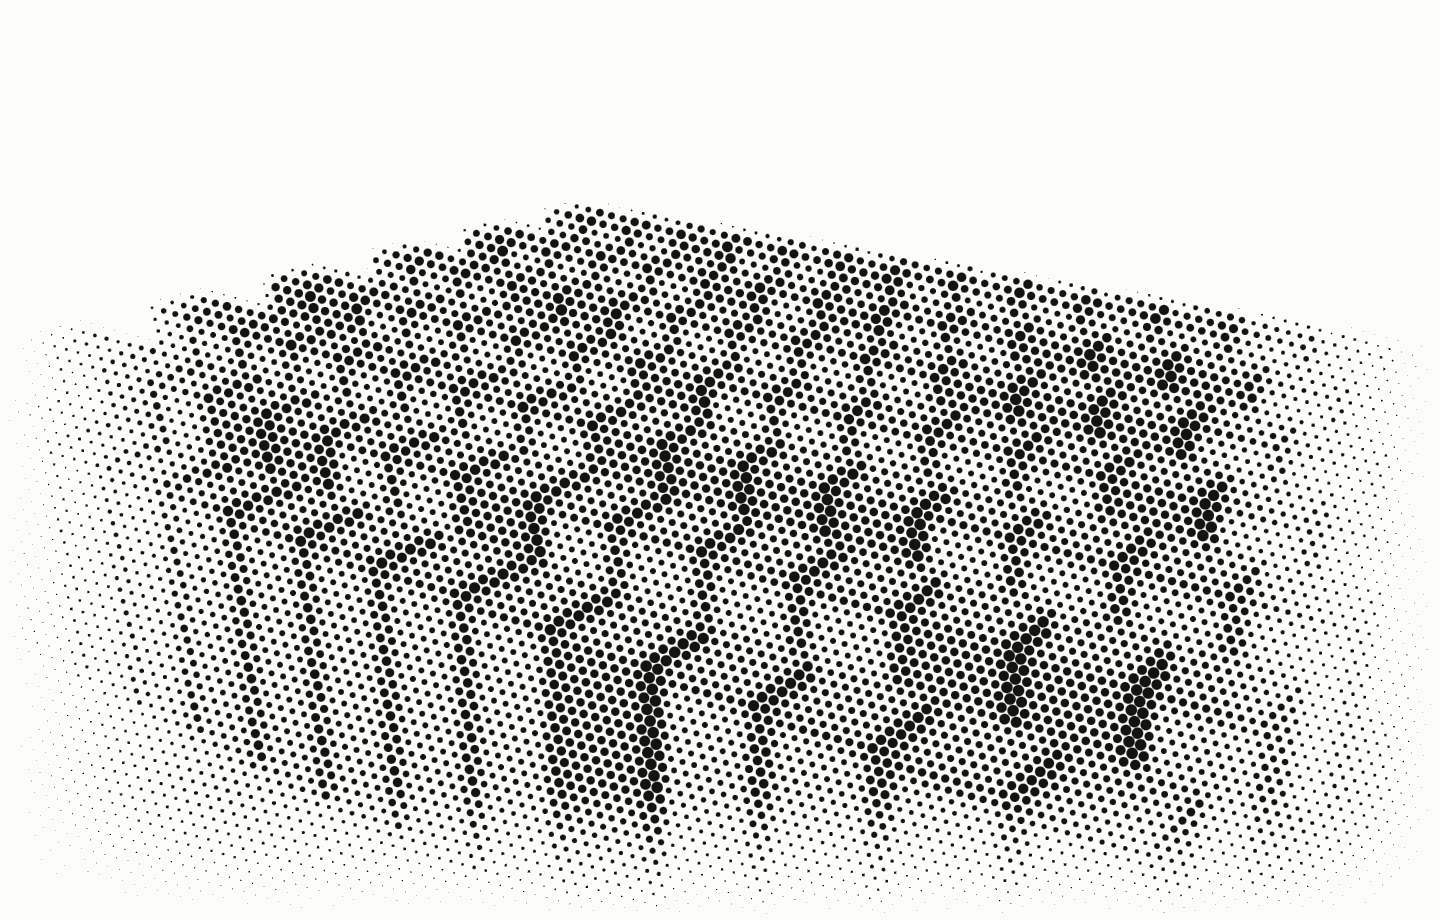
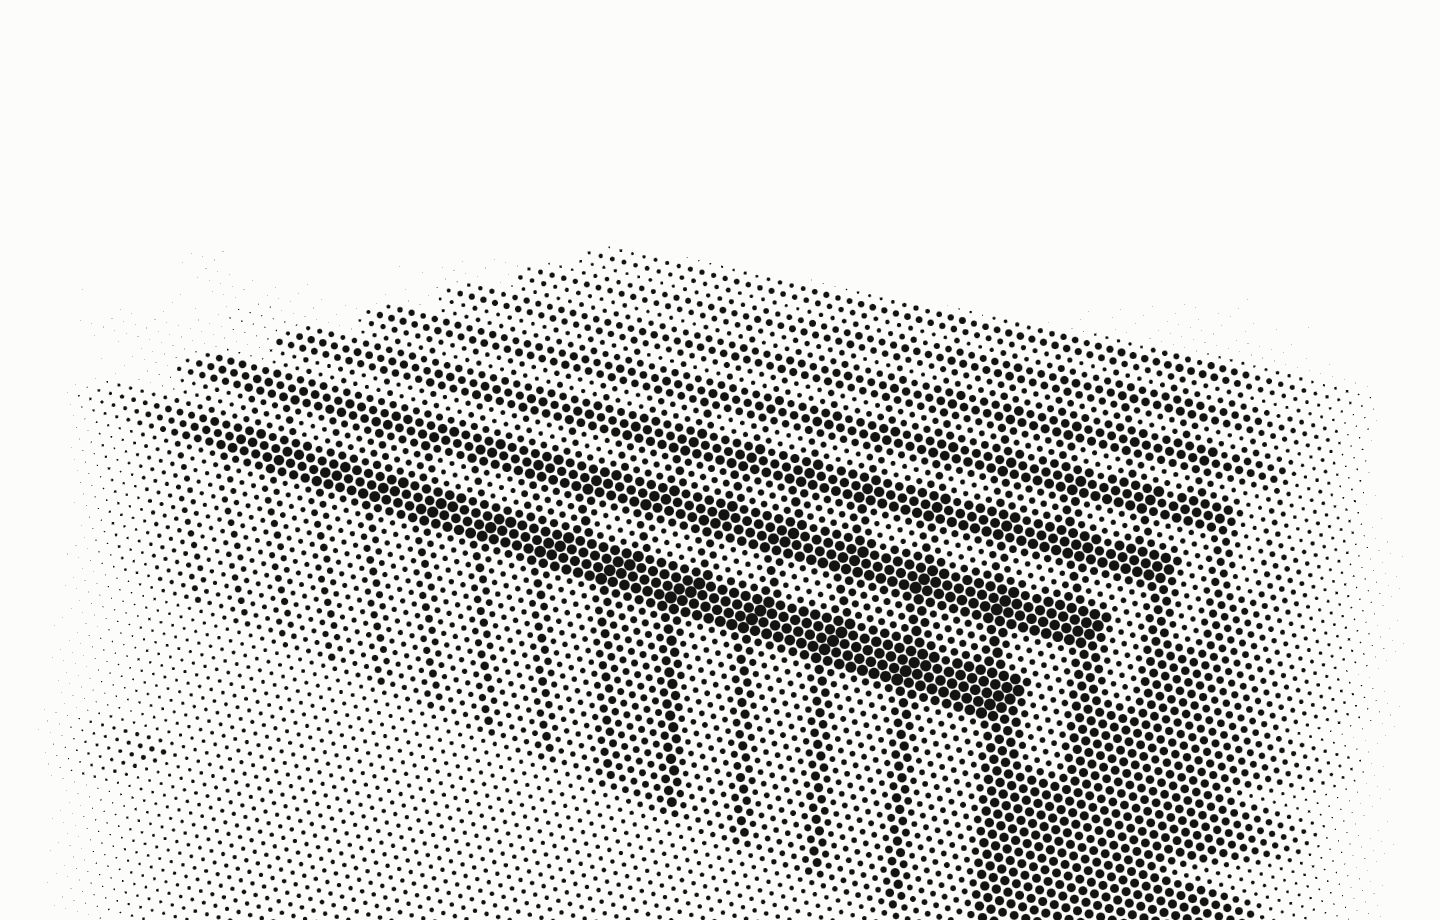
Decouple ridge distance from ground size, and pull datacenter back
ground() derived the ridge's distance from -d/2 + 4, tying how far the
horizon sits to how large the ground plane is. Task 5 had to shrink d on
five subjects to pull their ridges inside the fog band, which pushed
d/2 below flat + 8 and collapsed scatterRadius's span to zero on four of
them: scatter sat in a ring at one radius instead of filling a middle
plane.

ground() now takes an explicit ridgeDist and throws if ridge is set
without it, rather than falling back silently, which is what produced
the dead ridges in the first place. w and d are restored to their
original, larger values on all five affected subjects, and ridgeDist is
solved per subject against its own camera and fog band instead.

datacenter's camera is pulled back on both CAM.datacenter and
CAM_ROLE['datacenter:hero'], same oblique direction, so the rack rows
read as rows in a hall with field around them instead of a mass filling
the frame.

Changed region(s): [[0.0625, 0.213, 0.9375, 1.0]]

diff --git a/prototypes/dot-foundry.html b/prototypes/dot-foundry.html
@@ -53276,7 +53276,7 @@ const SUBJECTS = [
    wider role naturally shows more landscape rather than cropping the subject */
 const CAM = {
   port:       [6, 40, 96, 0, 7, 2],
-  datacenter: [26, 20, 34, 0, 4, 0],
+  datacenter: [34, 25, 44, 0, 4, 0],
   wind:       [0, 26, 62, 0, 8, 0],
   robotics:   [4, 26, 74, 0, 9, 0],
   grid:       [0, 20, 64, 0, 10, 0],
@@ -53292,7 +53292,7 @@ const CAM_ROLE = {
   'wind:hero':       [0, 17, 48, 0, 9, 0],
   'grid:hero':       [0, 15, 52, 0, 11, 0],
   'robotics:hero':   [4, 17, 56, 0, 10, 0],
-  'datacenter:hero': [22, 15, 28, 0, 4, 0],
+  'datacenter:hero': [29, 18, 36, 0, 4, 0],
   'port:cover':      [8, 30, 78, 0, 9, 4],
   'urban:cover':     [0, 30, 60, 0, 7, 0],
 };
@@ -53345,9 +53345,23 @@ function ground(g, TONE, rnd, o){
   }
 
   if (o.ridge){
+    /* far used to derive from -o.d/2 + 4, which tied how distant the horizon
+       reads to how large the ground plane happened to be. That coupling is
+       what let five subjects' ridges drift past fogFar and render as pure
+       white: shrinking d to save one subject's ridge silently broke another's
+       scatter span. ridgeDist is solved per subject against that subject's
+       own camera and fog band, so it is required outright — a fallback here
+       is exactly the silent behaviour that produced the dead ridges. */
+    if (o.ridgeDist == null){
+      throw new Error(
+        'ground(): ridge is set (' + o.ridge + ') but ridgeDist is missing. ' +
+        'Solve ridgeDist against this subject\'s camera and fog band ' +
+        '(target fog fraction roughly 0.55–0.70) rather than deriving it from d.'
+      );
+    }
     /* The far horizon, in the lightest tone so it reads as distance rather than
        as a second subject. Fog thins it further at render time. */
-    const far = -o.d/2 + 4;
+    const far = -o.ridgeDist;
     for (let i=0;i<26;i++){
       const w = o.w/26;
       const h = o.ridge * (0.45 + rnd()*0.55);
@@ -53411,7 +53425,7 @@ function buildScene(id){
     }
     for (let i=0;i<18;i++) for (let k=0;k<3;k++)
       box(2.6,1.25,1.4, -24+i*2.6, 5.6+k*1.32, 24+(rnd()-.5)*2.6, rnd()>.5?TONE[2]:TONE[1]);
-    ground(g, TONE, rnd, { w: 119, d: 95, amp: 1.0, flat: 44, ridge: 5.5, scatter: 22 });
+    ground(g, TONE, rnd, { w: 150, d: 120, amp: 1.0, flat: 44, ridge: 5.5, ridgeDist: 22, scatter: 22 });
   }
 
   if (id === 'datacenter'){
@@ -53420,7 +53434,7 @@ function buildScene(id){
       box(1.9,6.4,2.0, x, 3.2, z, rnd()>.7?TONE[2]:TONE[1]);
       box(1.9,.28,2.0, x, 6.5, z, TONE[4]);
     }
-    ground(g, TONE, rnd, { w: 60, d: 55, amp: 0.8, flat: 30, ridge: 4.0, scatter: 16 });
+    ground(g, TONE, rnd, { w: 120, d: 110, amp: 0.8, flat: 30, ridge: 4.0, ridgeDist: 24, scatter: 16 });
   }
 
   if (id === 'wind'){
@@ -53446,7 +53460,7 @@ function buildScene(id){
         bl.translateY(4.75); g.add(bl);
       }
     }
-    ground(g, TONE, rnd, { w: 59, d: 48, plane: false, ridge: 6.0, scatter: 20 });
+    ground(g, TONE, rnd, { w: 160, d: 130, plane: false, ridge: 6.0, ridgeDist: 21, scatter: 20 });
   }
 
   if (id === 'robotics'){
@@ -53484,7 +53498,7 @@ function buildScene(id){
   }
 
   if (id === 'grid'){
-    ground(g, TONE, rnd, { w: 63, d: 50, amp: 1.2, flat: 12, ridge: 7.0, scatter: 30 });
+    ground(g, TONE, rnd, { w: 190, d: 150, amp: 1.2, flat: 12, ridge: 7.0, ridgeDist: 21, scatter: 30 });
     const tops = [];
     for (let i=0;i<5;i++){
       const x = -34 + i*17, base = 0;
@@ -53526,7 +53540,7 @@ function buildScene(id){
       const tone = cz < -8 ? 0 : cz < 2 ? 1 : (rnd() > .6 ? 3 : 2);
       box(2.7,h,2.7, cx, h/2, cz, TONE[tone]);
     }
-    ground(g, TONE, rnd, { w: 62, d: 53, amp: 0.9, flat: 36, ridge: 5.0, scatter: 18 });
+    ground(g, TONE, rnd, { w: 140, d: 120, amp: 0.9, flat: 36, ridge: 5.0, ridgeDist: 23, scatter: 18 });
   }
 
   s.add(g);

diff --git a/prototypes/dot-render.html b/prototypes/dot-render.html
@@ -53132,7 +53132,7 @@ const SUBJECTS = [
    wider role naturally shows more landscape rather than cropping the subject */
 const CAM = {
   port:       [6, 40, 96, 0, 7, 2],
-  datacenter: [26, 20, 34, 0, 4, 0],
+  datacenter: [34, 25, 44, 0, 4, 0],
   wind:       [0, 26, 62, 0, 8, 0],
   robotics:   [4, 26, 74, 0, 9, 0],
   grid:       [0, 20, 64, 0, 10, 0],
@@ -53148,7 +53148,7 @@ const CAM_ROLE = {
   'wind:hero':       [0, 17, 48, 0, 9, 0],
   'grid:hero':       [0, 15, 52, 0, 11, 0],
   'robotics:hero':   [4, 17, 56, 0, 10, 0],
-  'datacenter:hero': [22, 15, 28, 0, 4, 0],
+  'datacenter:hero': [29, 18, 36, 0, 4, 0],
   'port:cover':      [8, 30, 78, 0, 9, 4],
   'urban:cover':     [0, 30, 60, 0, 7, 0],
 };
@@ -53201,9 +53201,23 @@ function ground(g, TONE, rnd, o){
   }
 
   if (o.ridge){
+    /* far used to derive from -o.d/2 + 4, which tied how distant the horizon
+       reads to how large the ground plane happened to be. That coupling is
+       what let five subjects' ridges drift past fogFar and render as pure
+       white: shrinking d to save one subject's ridge silently broke another's
+       scatter span. ridgeDist is solved per subject against that subject's
+       own camera and fog band, so it is required outright — a fallback here
+       is exactly the silent behaviour that produced the dead ridges. */
+    if (o.ridgeDist == null){
+      throw new Error(
+        'ground(): ridge is set (' + o.ridge + ') but ridgeDist is missing. ' +
+        'Solve ridgeDist against this subject\'s camera and fog band ' +
+        '(target fog fraction roughly 0.55–0.70) rather than deriving it from d.'
+      );
+    }
     /* The far horizon, in the lightest tone so it reads as distance rather than
        as a second subject. Fog thins it further at render time. */
-    const far = -o.d/2 + 4;
+    const far = -o.ridgeDist;
     for (let i=0;i<26;i++){
       const w = o.w/26;
       const h = o.ridge * (0.45 + rnd()*0.55);
@@ -53267,7 +53281,7 @@ function buildScene(id){
     }
     for (let i=0;i<18;i++) for (let k=0;k<3;k++)
       box(2.6,1.25,1.4, -24+i*2.6, 5.6+k*1.32, 24+(rnd()-.5)*2.6, rnd()>.5?TONE[2]:TONE[1]);
-    ground(g, TONE, rnd, { w: 119, d: 95, amp: 1.0, flat: 44, ridge: 5.5, scatter: 22 });
+    ground(g, TONE, rnd, { w: 150, d: 120, amp: 1.0, flat: 44, ridge: 5.5, ridgeDist: 22, scatter: 22 });
   }
 
   if (id === 'datacenter'){
@@ -53276,7 +53290,7 @@ function buildScene(id){
       box(1.9,6.4,2.0, x, 3.2, z, rnd()>.7?TONE[2]:TONE[1]);
       box(1.9,.28,2.0, x, 6.5, z, TONE[4]);
     }
-    ground(g, TONE, rnd, { w: 60, d: 55, amp: 0.8, flat: 30, ridge: 4.0, scatter: 16 });
+    ground(g, TONE, rnd, { w: 120, d: 110, amp: 0.8, flat: 30, ridge: 4.0, ridgeDist: 24, scatter: 16 });
   }
 
   if (id === 'wind'){
@@ -53302,7 +53316,7 @@ function buildScene(id){
         bl.translateY(4.75); g.add(bl);
       }
     }
-    ground(g, TONE, rnd, { w: 59, d: 48, plane: false, ridge: 6.0, scatter: 20 });
+    ground(g, TONE, rnd, { w: 160, d: 130, plane: false, ridge: 6.0, ridgeDist: 21, scatter: 20 });
   }
 
   if (id === 'robotics'){
@@ -53340,7 +53354,7 @@ function buildScene(id){
   }
 
   if (id === 'grid'){
-    ground(g, TONE, rnd, { w: 63, d: 50, amp: 1.2, flat: 12, ridge: 7.0, scatter: 30 });
+    ground(g, TONE, rnd, { w: 190, d: 150, amp: 1.2, flat: 12, ridge: 7.0, ridgeDist: 21, scatter: 30 });
     const tops = [];
     for (let i=0;i<5;i++){
       const x = -34 + i*17, base = 0;
@@ -53382,7 +53396,7 @@ function buildScene(id){
       const tone = cz < -8 ? 0 : cz < 2 ? 1 : (rnd() > .6 ? 3 : 2);
       box(2.7,h,2.7, cx, h/2, cz, TONE[tone]);
     }
-    ground(g, TONE, rnd, { w: 62, d: 53, amp: 0.9, flat: 36, ridge: 5.0, scatter: 18 });
+    ground(g, TONE, rnd, { w: 140, d: 120, amp: 0.9, flat: 36, ridge: 5.0, ridgeDist: 23, scatter: 18 });
   }
 
   s.add(g);

diff --git a/prototypes/dot-engine.js b/prototypes/dot-engine.js
@@ -73,7 +73,7 @@ const SUBJECTS = [
    wider role naturally shows more landscape rather than cropping the subject */
 const CAM = {
   port:       [6, 40, 96, 0, 7, 2],
-  datacenter: [26, 20, 34, 0, 4, 0],
+  datacenter: [34, 25, 44, 0, 4, 0],
   wind:       [0, 26, 62, 0, 8, 0],
   robotics:   [4, 26, 74, 0, 9, 0],
   grid:       [0, 20, 64, 0, 10, 0],
@@ -89,7 +89,7 @@ const CAM_ROLE = {
   'wind:hero':       [0, 17, 48, 0, 9, 0],
   'grid:hero':       [0, 15, 52, 0, 11, 0],
   'robotics:hero':   [4, 17, 56, 0, 10, 0],
-  'datacenter:hero': [22, 15, 28, 0, 4, 0],
+  'datacenter:hero': [29, 18, 36, 0, 4, 0],
   'port:cover':      [8, 30, 78, 0, 9, 4],
   'urban:cover':     [0, 30, 60, 0, 7, 0],
 };
@@ -142,9 +142,23 @@ function ground(g, TONE, rnd, o){
   }
 
   if (o.ridge){
+    /* far used to derive from -o.d/2 + 4, which tied how distant the horizon
+       reads to how large the ground plane happened to be. That coupling is
+       what let five subjects' ridges drift past fogFar and render as pure
+       white: shrinking d to save one subject's ridge silently broke another's
+       scatter span. ridgeDist is solved per subject against that subject's
+       own camera and fog band, so it is required outright — a fallback here
+       is exactly the silent behaviour that produced the dead ridges. */
+    if (o.ridgeDist == null){
+      throw new Error(
+        'ground(): ridge is set (' + o.ridge + ') but ridgeDist is missing. ' +
+        'Solve ridgeDist against this subject\'s camera and fog band ' +
+        '(target fog fraction roughly 0.55–0.70) rather than deriving it from d.'
+      );
+    }
     /* The far horizon, in the lightest tone so it reads as distance rather than
        as a second subject. Fog thins it further at render time. */
-    const far = -o.d/2 + 4;
+    const far = -o.ridgeDist;
     for (let i=0;i<26;i++){
       const w = o.w/26;
       const h = o.ridge * (0.45 + rnd()*0.55);
@@ -208,7 +222,7 @@ function buildScene(id){
     }
     for (let i=0;i<18;i++) for (let k=0;k<3;k++)
       box(2.6,1.25,1.4, -24+i*2.6, 5.6+k*1.32, 24+(rnd()-.5)*2.6, rnd()>.5?TONE[2]:TONE[1]);
-    ground(g, TONE, rnd, { w: 119, d: 95, amp: 1.0, flat: 44, ridge: 5.5, scatter: 22 });
+    ground(g, TONE, rnd, { w: 150, d: 120, amp: 1.0, flat: 44, ridge: 5.5, ridgeDist: 22, scatter: 22 });
   }
 
   if (id === 'datacenter'){
@@ -217,7 +231,7 @@ function buildScene(id){
       box(1.9,6.4,2.0, x, 3.2, z, rnd()>.7?TONE[2]:TONE[1]);
       box(1.9,.28,2.0, x, 6.5, z, TONE[4]);
     }
-    ground(g, TONE, rnd, { w: 60, d: 55, amp: 0.8, flat: 30, ridge: 4.0, scatter: 16 });
+    ground(g, TONE, rnd, { w: 120, d: 110, amp: 0.8, flat: 30, ridge: 4.0, ridgeDist: 24, scatter: 16 });
   }
 
   if (id === 'wind'){
@@ -243,7 +257,7 @@ function buildScene(id){
         bl.translateY(4.75); g.add(bl);
       }
     }
-    ground(g, TONE, rnd, { w: 59, d: 48, plane: false, ridge: 6.0, scatter: 20 });
+    ground(g, TONE, rnd, { w: 160, d: 130, plane: false, ridge: 6.0, ridgeDist: 21, scatter: 20 });
   }
 
   if (id === 'robotics'){
@@ -281,7 +295,7 @@ function buildScene(id){
   }
 
   if (id === 'grid'){
-    ground(g, TONE, rnd, { w: 63, d: 50, amp: 1.2, flat: 12, ridge: 7.0, scatter: 30 });
+    ground(g, TONE, rnd, { w: 190, d: 150, amp: 1.2, flat: 12, ridge: 7.0, ridgeDist: 21, scatter: 30 });
     const tops = [];
     for (let i=0;i<5;i++){
       const x = -34 + i*17, base = 0;
@@ -323,7 +337,7 @@ function buildScene(id){
       const tone = cz < -8 ? 0 : cz < 2 ? 1 : (rnd() > .6 ? 3 : 2);
       box(2.7,h,2.7, cx, h/2, cz, TONE[tone]);
     }
-    ground(g, TONE, rnd, { w: 62, d: 53, amp: 0.9, flat: 36, ridge: 5.0, scatter: 18 });
+    ground(g, TONE, rnd, { w: 140, d: 120, amp: 0.9, flat: 36, ridge: 5.0, ridgeDist: 23, scatter: 18 });
   }
 
   s.add(g);

diff --git a/tests/dot-engine.test.ts b/tests/dot-engine.test.ts
@@ -187,6 +187,31 @@ describe('ground forms', () => {
   });
 });
 
+// The ridge used to derive its distance from -d/2 + 4, tying how far the
+// horizon sits to how large the ground plane was, and a silent fallback there
+// is exactly what let five subjects' ridges land past fogFar and render as
+// pure white with nobody noticing. ridgeDist replaces the derivation and is
+// required whenever ridge is set, with no fallback: ground() throws instead.
+// Passing plane: false and scatter: 0 (or leaving scatter at its 0 default)
+// means these calls never reach a THREE.* constructor, so the throw path is
+// exercised with no THREE stub at all — the throw is the first statement
+// inside the `if (o.ridge)` branch, ahead of any geometry construction.
+describe("ground() requires ridgeDist whenever ridge is set", () => {
+  it('throws when ridge is non-zero and ridgeDist is absent', () => {
+    const E = loadEngine();
+    expect(() =>
+      E.ground({}, [], () => 0.5, { plane: false, ridge: 5.5 }),
+    ).toThrow(/ridgeDist/);
+  });
+
+  it('does not throw for ridge: 0 even without ridgeDist, as robotics relies on', () => {
+    const E = loadEngine();
+    expect(() =>
+      E.ground({}, [], () => 0.5, { plane: false, scatter: 0, ridge: 0 }),
+    ).not.toThrow();
+  });
+});
+
 // A prior review flagged flat + 6 + t*(d/2 - flat - 8) as an unguarded edge
 // case: once d is cut small enough relative to flat, the span goes negative,
 // the near/far gradient inverts, and scatter boxes land inside flat, the one
@@ -239,6 +264,33 @@ describe('scatterRadius', () => {
         expect(r).toBeGreaterThanOrEqual(prev);
         prev = r;
       }
+    }
+  });
+
+  // Task 5 shrank d on five subjects to pull their ridges inside the fog band,
+  // which pushed d/2 below flat + 8 on four of them and collapsed their scatter
+  // annulus to a ring at flat+6 (the two collapse cases above). ridgeDist now
+  // carries that job instead, so Task 7b restores every subject's w/d to Task
+  // 5's original, larger values. These cases prove the span is a real range
+  // again — t=0 and t=1 must land at different radii, not the same one — at
+  // the actual flat/d each subject ships with post-restore.
+  it('is non-degenerate again at the restored w/d values, unlike the shrunk ones above', () => {
+    const E = loadEngine();
+    // [flat, d, expected span = d/2 - flat - 8]
+    const restored: Array<[number, number, number]> = [
+      [44, 120, 8],   // port
+      [30, 110, 17],  // datacenter
+      [26, 130, 31],  // wind (flat defaults to 26 — wind passes no flat)
+      [12, 150, 55],  // grid
+      [36, 120, 16],  // urban
+    ];
+    for (const [flat, d, span] of restored) {
+      const near = E.scatterRadius(flat, d, 0);
+      const far = E.scatterRadius(flat, d, 1);
+      expect(near).toBeCloseTo(flat + 6);
+      expect(far).toBeCloseTo(flat + 6 + span);
+      // non-degenerate: t=0 and t=1 must differ, i.e. a real range, not a ring
+      expect(far).toBeGreaterThan(near);
     }
   });
 });
